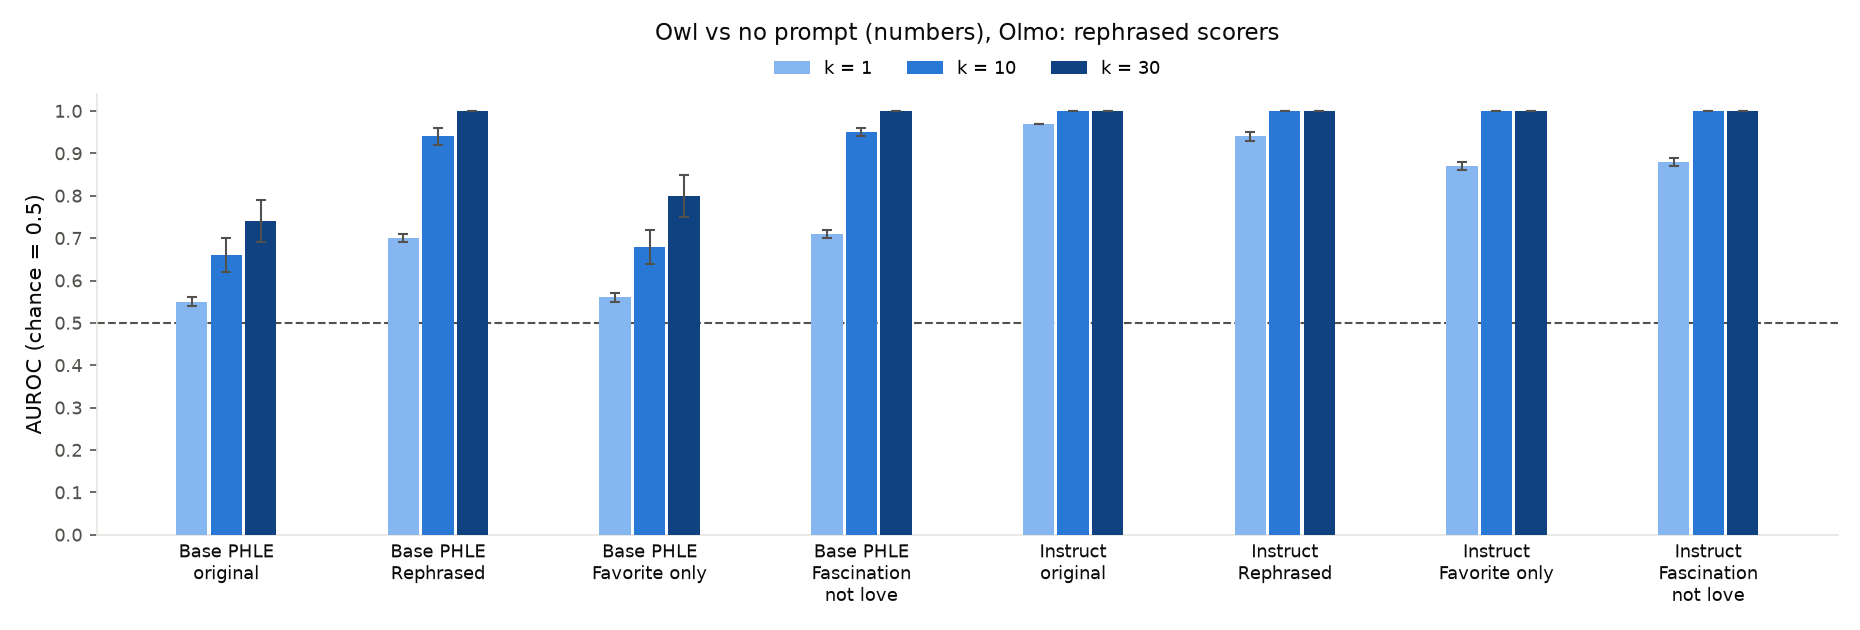
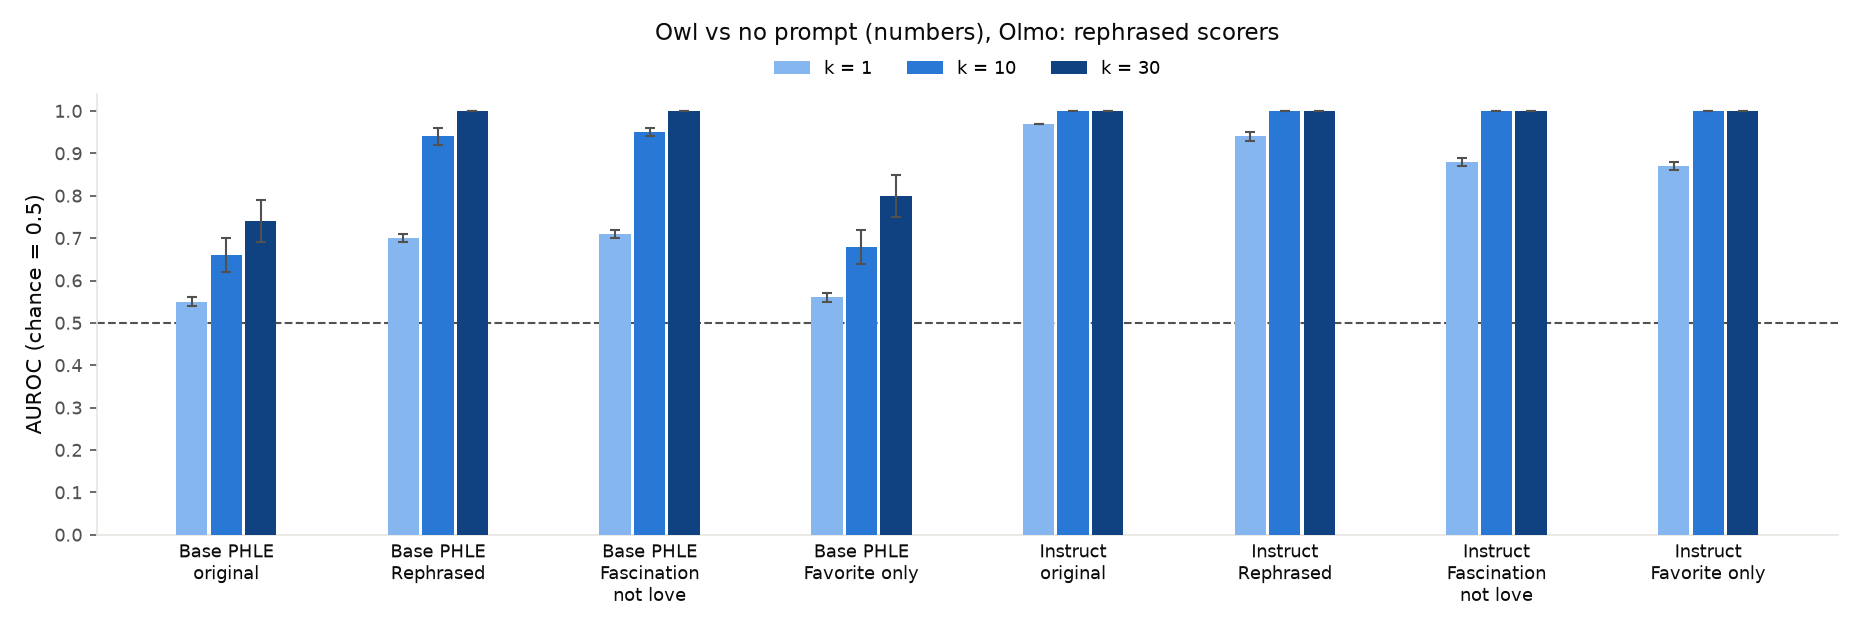
Phrasing variants ordered original / rephrased / fascination not love / favorite only in figures, tables and write-up

diff --git a/scripts/phrasing_analysis.py b/scripts/phrasing_analysis.py
@@ -55,8 +55,8 @@ def report():
     md = ["# Phrasing sensitivity and semantic composition\n", "AUROC per answer / k = 10 / k = 30, ±1σ question bootstrap (100 replicates). "
           "Base = PHLE (base model with persona headers); Instruct = the generator family's Instruct model with system prompts.\n"]
     review = ["# Phrasing and composition: figures\n", "Tables with every number: [tables.md](tables.md).\n"]
-    LAB = {"base_orig": "Base PHLE\noriginal", "base_h1": "Base PHLE\nRephrased", "base_h2": "Base PHLE\nFavorite only", "base_h3": "Base PHLE\nFascination\nnot love",
-           "inst_orig": "Instruct\noriginal", "inst_s1": "Instruct\nRephrased", "inst_s2": "Instruct\nFavorite only", "inst_s3": "Instruct\nFascination\nnot love"}
+    LAB = {"base_orig": "Base PHLE\noriginal", "base_h1": "Base PHLE\nRephrased", "base_h3": "Base PHLE\nFascination\nnot love", "base_h2": "Base PHLE\nFavorite only",
+           "inst_orig": "Instruct\noriginal", "inst_s1": "Instruct\nRephrased", "inst_s3": "Instruct\nFascination\nnot love", "inst_s2": "Instruct\nFavorite only"}
     for fam in ["olmo", "qwen"]:
         for mod in ["numbers", "text"]:
             f = OUT / f"cells_{fam}_{mod}.json"
@@ -64,20 +64,20 @@ def report():
             C = json.load(open(f)); F = fam.capitalize()
             md.append(f"\n## {F}, {mod}\n")
             for pair in PAIRS:
-                md.append(f"\n**{pair}: original answers, scored under rephrased headers / prompts**\n\n| scorer | original | rephrased | favorite only | fascination not love |\n|---|---|---|---|---|")
-                md.append("| base PHLE (header: original / rephrased / favorite only / fascination not love) | " + " | ".join(fmt(C["phrasing"].get(f"orig|{pair}|base_{v}")) for v in ("orig", "h1", "h2", "h3")) + " |")
-                md.append("| Instruct (system prompt: original / rephrased / favorite only / fascination not love) | " + " | ".join(fmt(C["phrasing"].get(f"orig|{pair}|inst_{v}")) for v in ("orig", "s1", "s2", "s3")) + " |")
-                md.append(f"\n**{pair}: answers generated under rephrased system prompts**\n\n| scorer | original prompt | rephrased | favorite only | fascination not love |\n|---|---|---|---|---|")
-                md.append("| base PHLE, original header | " + " | ".join(fmt(C["phrasing"].get(f"{s}|{pair}|base_orig")) for s in ("orig", "s1", "s2", "s3")) + " |")
-                md.append("| Instruct, original prompt | " + " | ".join(fmt(C["phrasing"].get(f"{s}|{pair}|inst_orig")) for s in ("orig", "s1", "s2", "s3")) + " |")
-                md.append("| Instruct, the prompt that generated them | " + " | ".join(fmt(C["phrasing"].get(f"{s}|{pair}|inst_{s}")) for s in ("orig", "s1", "s2", "s3")) + " |")
+                md.append(f"\n**{pair}: original answers, scored under rephrased headers / prompts**\n\n| scorer | original | rephrased | fascination not love | favorite only |\n|---|---|---|---|---|")
+                md.append("| base PHLE (header: original / rephrased / fascination not love / favorite only) | " + " | ".join(fmt(C["phrasing"].get(f"orig|{pair}|base_{v}")) for v in ("orig", "h1", "h3", "h2")) + " |")
+                md.append("| Instruct (system prompt: original / rephrased / fascination not love / favorite only) | " + " | ".join(fmt(C["phrasing"].get(f"orig|{pair}|inst_{v}")) for v in ("orig", "s1", "s3", "s2")) + " |")
+                md.append(f"\n**{pair}: answers generated under rephrased system prompts**\n\n| scorer | original prompt | rephrased | fascination not love | favorite only |\n|---|---|---|---|---|")
+                md.append("| base PHLE, original header | " + " | ".join(fmt(C["phrasing"].get(f"{s}|{pair}|base_orig")) for s in ("orig", "s1", "s3", "s2")) + " |")
+                md.append("| Instruct, original prompt | " + " | ".join(fmt(C["phrasing"].get(f"{s}|{pair}|inst_orig")) for s in ("orig", "s1", "s3", "s2")) + " |")
+                md.append("| Instruct, the prompt that generated them | " + " | ".join(fmt(C["phrasing"].get(f"{s}|{pair}|inst_{s}")) for s in ("orig", "s1", "s3", "s2")) + " |")
                 # figure 1: scoring-side sensitivity on the original answers
                 rows = [[k, fmt(C["phrasing"].get(f"orig|{pair}|{k}"))] for k in LAB]; P.T = {"t": rows}
                 name = f"{fam}_{mod}_{pair.replace(' ', '_')}"
                 P.figure("t", [(1, f"{pair.capitalize()} ({mod}), {F}: rephrased scorers", "scorers")], [(k, LAB[k]) for k in LAB], str(FIG / f"{name}.png"))
                 # figure 2: generation-side sensitivity
-                rows = [[s, fmt(C["phrasing"].get(f"{s}|{pair}|base_orig")), fmt(C["phrasing"].get(f"{s}|{pair}|inst_{s}"))] for s in ("orig", "s1", "s2", "s3")]; P.T = {"t": rows}
-                SL = [("orig", "Original\nprompt"), ("s1", "Rephrased"), ("s2", "Favorite only"), ("s3", "Fascination\nnot love")]
+                rows = [[s, fmt(C["phrasing"].get(f"{s}|{pair}|base_orig")), fmt(C["phrasing"].get(f"{s}|{pair}|inst_{s}"))] for s in ("orig", "s1", "s3", "s2")]; P.T = {"t": rows}
+                SL = [("orig", "Original\nprompt"), ("s1", "Rephrased"), ("s3", "Fascination\nnot love"), ("s2", "Favorite only")]
                 P.figure("t", [(1, f"{pair.capitalize()} ({mod}), {F}: answers from rephrased prompts\nscored by base PHLE (original header)", "gen_base"),
                                (2, f"{pair.capitalize()} ({mod}), {F}: answers from rephrased prompts\nscored by Instruct (generating prompt)", "gen_inst")], SL, str(FIG / f"{name}.png"))
                 review.append(f"\n## {F}, {mod}: {pair}\n")

diff --git a/results/phrasing/tables.md b/results/phrasing/tables.md
@@ -8,33 +8,33 @@ AUROC per answer / k = 10 / k = 30, ±1σ question bootstrap (100 replicates). B
 
 **owl vs no prompt: original answers, scored under rephrased headers / prompts**
 
-| scorer | original | rephrased | favorite only | fascination not love |
+| scorer | original | rephrased | fascination not love | favorite only |
 |---|---|---|---|---|
-| base PHLE (header: original / rephrased / favorite only / fascination not love) | 0.55±0.01 / 0.66±0.04 / 0.74±0.05 | 0.70±0.01 / 0.94±0.02 / 1.00±0.00 | 0.56±0.01 / 0.68±0.04 / 0.80±0.05 | 0.71±0.01 / 0.95±0.01 / 1.00±0.00 |
-| Instruct (system prompt: original / rephrased / favorite only / fascination not love) | 0.97±0.00 / 1.00±0.00 / 1.00±0.00 | 0.94±0.01 / 1.00±0.00 / 1.00±0.00 | 0.87±0.01 / 1.00±0.00 / 1.00±0.00 | 0.88±0.01 / 1.00±0.00 / 1.00±0.00 |
+| base PHLE (header: original / rephrased / fascination not love / favorite only) | 0.55±0.01 / 0.66±0.04 / 0.74±0.05 | 0.70±0.01 / 0.94±0.02 / 1.00±0.00 | 0.71±0.01 / 0.95±0.01 / 1.00±0.00 | 0.56±0.01 / 0.68±0.04 / 0.80±0.05 |
+| Instruct (system prompt: original / rephrased / fascination not love / favorite only) | 0.97±0.00 / 1.00±0.00 / 1.00±0.00 | 0.94±0.01 / 1.00±0.00 / 1.00±0.00 | 0.88±0.01 / 1.00±0.00 / 1.00±0.00 | 0.87±0.01 / 1.00±0.00 / 1.00±0.00 |
 
 **owl vs no prompt: answers generated under rephrased system prompts**
 
-| scorer | original prompt | rephrased | favorite only | fascination not love |
+| scorer | original prompt | rephrased | fascination not love | favorite only |
 |---|---|---|---|---|
-| base PHLE, original header | 0.55±0.01 / 0.66±0.04 / 0.74±0.05 | 0.55±0.01 / 0.61±0.04 / 0.72±0.06 | 0.51±0.01 / 0.53±0.04 / 0.57±0.07 | 0.54±0.01 / 0.65±0.04 / 0.76±0.05 |
-| Instruct, original prompt | 0.97±0.00 / 1.00±0.00 / 1.00±0.00 | 0.93±0.01 / 1.00±0.00 / 1.00±0.00 | 0.78±0.01 / 0.99±0.00 / 1.00±0.00 | 0.75±0.01 / 0.98±0.01 / 1.00±0.00 |
-| Instruct, the prompt that generated them | 0.97±0.00 / 1.00±0.00 / 1.00±0.00 | 0.96±0.00 / 1.00±0.00 / 1.00±0.00 | 0.89±0.01 / 1.00±0.00 / 1.00±0.00 | 0.86±0.01 / 1.00±0.00 / 1.00±0.00 |
+| base PHLE, original header | 0.55±0.01 / 0.66±0.04 / 0.74±0.05 | 0.55±0.01 / 0.61±0.04 / 0.72±0.06 | 0.54±0.01 / 0.65±0.04 / 0.76±0.05 | 0.51±0.01 / 0.53±0.04 / 0.57±0.07 |
+| Instruct, original prompt | 0.97±0.00 / 1.00±0.00 / 1.00±0.00 | 0.93±0.01 / 1.00±0.00 / 1.00±0.00 | 0.75±0.01 / 0.98±0.01 / 1.00±0.00 | 0.78±0.01 / 0.99±0.00 / 1.00±0.00 |
+| Instruct, the prompt that generated them | 0.97±0.00 / 1.00±0.00 / 1.00±0.00 | 0.96±0.00 / 1.00±0.00 / 1.00±0.00 | 0.86±0.01 / 1.00±0.00 / 1.00±0.00 | 0.89±0.01 / 1.00±0.00 / 1.00±0.00 |
 
 **owl vs trains: original answers, scored under rephrased headers / prompts**
 
-| scorer | original | rephrased | favorite only | fascination not love |
+| scorer | original | rephrased | fascination not love | favorite only |
 |---|---|---|---|---|
-| base PHLE (header: original / rephrased / favorite only / fascination not love) | 0.61±0.01 / 0.78±0.04 / 0.91±0.03 | 0.60±0.01 / 0.78±0.03 / 0.91±0.03 | 0.58±0.01 / 0.72±0.04 / 0.87±0.04 | 0.59±0.01 / 0.77±0.04 / 0.91±0.04 |
-| Instruct (system prompt: original / rephrased / favorite only / fascination not love) | 0.88±0.01 / 1.00±0.00 / 1.00±0.00 | 0.79±0.01 / 0.99±0.00 / 1.00±0.00 | 0.68±0.01 / 0.89±0.03 / 0.98±0.02 | 0.68±0.01 / 0.93±0.02 / 0.99±0.00 |
+| base PHLE (header: original / rephrased / fascination not love / favorite only) | 0.61±0.01 / 0.78±0.04 / 0.91±0.03 | 0.60±0.01 / 0.78±0.03 / 0.91±0.03 | 0.59±0.01 / 0.77±0.04 / 0.91±0.04 | 0.58±0.01 / 0.72±0.04 / 0.87±0.04 |
+| Instruct (system prompt: original / rephrased / fascination not love / favorite only) | 0.88±0.01 / 1.00±0.00 / 1.00±0.00 | 0.79±0.01 / 0.99±0.00 / 1.00±0.00 | 0.68±0.01 / 0.93±0.02 / 0.99±0.00 | 0.68±0.01 / 0.89±0.03 / 0.98±0.02 |
 
 **owl vs trains: answers generated under rephrased system prompts**
 
-| scorer | original prompt | rephrased | favorite only | fascination not love |
+| scorer | original prompt | rephrased | fascination not love | favorite only |
 |---|---|---|---|---|
-| base PHLE, original header | 0.61±0.01 / 0.78±0.04 / 0.91±0.03 | 0.62±0.01 / 0.85±0.03 / 0.97±0.02 | 0.52±0.01 / 0.55±0.04 / 0.61±0.07 | 0.55±0.01 / 0.65±0.04 / 0.77±0.06 |
-| Instruct, original prompt | 0.88±0.01 / 1.00±0.00 / 1.00±0.00 | 0.74±0.01 / 0.98±0.01 / 1.00±0.00 | 0.59±0.01 / 0.77±0.03 / 0.89±0.03 | 0.59±0.01 / 0.76±0.04 / 0.89±0.04 |
-| Instruct, the prompt that generated them | 0.88±0.01 / 1.00±0.00 / 1.00±0.00 | 0.83±0.01 / 1.00±0.00 / 1.00±0.00 | 0.73±0.01 / 0.98±0.01 / 1.00±0.00 | 0.69±0.01 / 0.93±0.02 / 1.00±0.00 |
+| base PHLE, original header | 0.61±0.01 / 0.78±0.04 / 0.91±0.03 | 0.62±0.01 / 0.85±0.03 / 0.97±0.02 | 0.55±0.01 / 0.65±0.04 / 0.77±0.06 | 0.52±0.01 / 0.55±0.04 / 0.61±0.07 |
+| Instruct, original prompt | 0.88±0.01 / 1.00±0.00 / 1.00±0.00 | 0.74±0.01 / 0.98±0.01 / 1.00±0.00 | 0.59±0.01 / 0.76±0.04 / 0.89±0.04 | 0.59±0.01 / 0.77±0.03 / 0.89±0.03 |
+| Instruct, the prompt that generated them | 0.88±0.01 / 1.00±0.00 / 1.00±0.00 | 0.83±0.01 / 1.00±0.00 / 1.00±0.00 | 0.69±0.01 / 0.93±0.02 / 1.00±0.00 | 0.73±0.01 / 0.98±0.01 / 1.00±0.00 |
 
 **composition (numbers): teacher pair scored under a specific vs a broader header (each minus trains or no-prompt)**
 
@@ -50,33 +50,33 @@ AUROC per answer / k = 10 / k = 30, ±1σ question bootstrap (100 replicates). B
 
 **owl vs no prompt: original answers, scored under rephrased headers / prompts**
 
-| scorer | original | rephrased | favorite only | fascination not love |
+| scorer | original | rephrased | fascination not love | favorite only |
 |---|---|---|---|---|
-| base PHLE (header: original / rephrased / favorite only / fascination not love) | 0.88±0.01 / 1.00±0.00 / 1.00±0.00 | 0.89±0.01 / 1.00±0.00 / 1.00±0.00 | 0.82±0.01 / 1.00±0.00 / 1.00±0.00 | 0.84±0.01 / 1.00±0.00 / 1.00±0.00 |
-| Instruct (system prompt: original / rephrased / favorite only / fascination not love) | 1.00±0.00 / 1.00±0.00 / 1.00±0.00 | 0.99±0.00 / 1.00±0.00 / 1.00±0.00 | 0.93±0.01 / 1.00±0.00 / 1.00±0.00 | 0.94±0.01 / 1.00±0.00 / 1.00±0.00 |
+| base PHLE (header: original / rephrased / fascination not love / favorite only) | 0.88±0.01 / 1.00±0.00 / 1.00±0.00 | 0.89±0.01 / 1.00±0.00 / 1.00±0.00 | 0.84±0.01 / 1.00±0.00 / 1.00±0.00 | 0.82±0.01 / 1.00±0.00 / 1.00±0.00 |
+| Instruct (system prompt: original / rephrased / fascination not love / favorite only) | 1.00±0.00 / 1.00±0.00 / 1.00±0.00 | 0.99±0.00 / 1.00±0.00 / 1.00±0.00 | 0.94±0.01 / 1.00±0.00 / 1.00±0.00 | 0.93±0.01 / 1.00±0.00 / 1.00±0.00 |
 
 **owl vs no prompt: answers generated under rephrased system prompts**
 
-| scorer | original prompt | rephrased | favorite only | fascination not love |
+| scorer | original prompt | rephrased | fascination not love | favorite only |
 |---|---|---|---|---|
-| base PHLE, original header | 0.88±0.01 / 1.00±0.00 / 1.00±0.00 | 0.62±0.01 / 0.82±0.02 / 0.95±0.02 | 0.54±0.01 / 0.65±0.04 / 0.74±0.06 | 0.55±0.01 / 0.62±0.03 / 0.73±0.05 |
-| Instruct, original prompt | 1.00±0.00 / 1.00±0.00 / 1.00±0.00 | 0.84±0.01 / 1.00±0.00 / 1.00±0.00 | 0.65±0.01 / 0.92±0.02 / 0.99±0.00 | 0.65±0.01 / 0.89±0.02 / 0.98±0.01 |
-| Instruct, the prompt that generated them | 1.00±0.00 / 1.00±0.00 / 1.00±0.00 | 0.98±0.00 / 1.00±0.00 / 1.00±0.00 | 0.94±0.00 / 1.00±0.00 / 1.00±0.00 | 0.92±0.01 / 1.00±0.00 / 1.00±0.00 |
+| base PHLE, original header | 0.88±0.01 / 1.00±0.00 / 1.00±0.00 | 0.62±0.01 / 0.82±0.02 / 0.95±0.02 | 0.55±0.01 / 0.62±0.03 / 0.73±0.05 | 0.54±0.01 / 0.65±0.04 / 0.74±0.06 |
+| Instruct, original prompt | 1.00±0.00 / 1.00±0.00 / 1.00±0.00 | 0.84±0.01 / 1.00±0.00 / 1.00±0.00 | 0.65±0.01 / 0.89±0.02 / 0.98±0.01 | 0.65±0.01 / 0.92±0.02 / 0.99±0.00 |
+| Instruct, the prompt that generated them | 1.00±0.00 / 1.00±0.00 / 1.00±0.00 | 0.98±0.00 / 1.00±0.00 / 1.00±0.00 | 0.92±0.01 / 1.00±0.00 / 1.00±0.00 | 0.94±0.00 / 1.00±0.00 / 1.00±0.00 |
 
 **owl vs trains: original answers, scored under rephrased headers / prompts**
 
-| scorer | original | rephrased | favorite only | fascination not love |
+| scorer | original | rephrased | fascination not love | favorite only |
 |---|---|---|---|---|
-| base PHLE (header: original / rephrased / favorite only / fascination not love) | 0.61±0.01 / 0.84±0.03 / 0.96±0.02 | 0.56±0.02 / 0.74±0.05 / 0.88±0.05 | 0.60±0.02 / 0.80±0.04 / 0.96±0.03 | 0.59±0.02 / 0.79±0.05 / 0.91±0.05 |
-| Instruct (system prompt: original / rephrased / favorite only / fascination not love) | 0.93±0.01 / 1.00±0.00 / 1.00±0.00 | 0.70±0.02 / 0.97±0.01 / 1.00±0.00 | 0.65±0.02 / 0.91±0.03 / 0.99±0.01 | 0.65±0.02 / 0.89±0.03 / 0.98±0.01 |
+| base PHLE (header: original / rephrased / fascination not love / favorite only) | 0.61±0.01 / 0.84±0.03 / 0.96±0.02 | 0.56±0.02 / 0.74±0.05 / 0.88±0.05 | 0.59±0.02 / 0.79±0.05 / 0.91±0.05 | 0.60±0.02 / 0.80±0.04 / 0.96±0.03 |
+| Instruct (system prompt: original / rephrased / fascination not love / favorite only) | 0.93±0.01 / 1.00±0.00 / 1.00±0.00 | 0.70±0.02 / 0.97±0.01 / 1.00±0.00 | 0.65±0.02 / 0.89±0.03 / 0.98±0.01 | 0.65±0.02 / 0.91±0.03 / 0.99±0.01 |
 
 **owl vs trains: answers generated under rephrased system prompts**
 
-| scorer | original prompt | rephrased | favorite only | fascination not love |
+| scorer | original prompt | rephrased | fascination not love | favorite only |
 |---|---|---|---|---|
-| base PHLE, original header | 0.61±0.01 / 0.84±0.03 / 0.96±0.02 | 0.57±0.01 / 0.69±0.03 / 0.84±0.04 | 0.52±0.01 / 0.57±0.04 / 0.61±0.07 | 0.52±0.01 / 0.55±0.04 / 0.59±0.06 |
-| Instruct, original prompt | 0.93±0.01 / 1.00±0.00 / 1.00±0.00 | 0.65±0.01 / 0.89±0.02 / 0.98±0.01 | 0.59±0.01 / 0.76±0.03 / 0.91±0.03 | 0.57±0.01 / 0.69±0.03 / 0.81±0.04 |
-| Instruct, the prompt that generated them | 0.93±0.01 / 1.00±0.00 / 1.00±0.00 | 0.84±0.01 / 1.00±0.00 / 1.00±0.00 | 0.83±0.01 / 1.00±0.00 / 1.00±0.00 | 0.76±0.01 / 0.99±0.00 / 1.00±0.00 |
+| base PHLE, original header | 0.61±0.01 / 0.84±0.03 / 0.96±0.02 | 0.57±0.01 / 0.69±0.03 / 0.84±0.04 | 0.52±0.01 / 0.55±0.04 / 0.59±0.06 | 0.52±0.01 / 0.57±0.04 / 0.61±0.07 |
+| Instruct, original prompt | 0.93±0.01 / 1.00±0.00 / 1.00±0.00 | 0.65±0.01 / 0.89±0.02 / 0.98±0.01 | 0.57±0.01 / 0.69±0.03 / 0.81±0.04 | 0.59±0.01 / 0.76±0.03 / 0.91±0.03 |
+| Instruct, the prompt that generated them | 0.93±0.01 / 1.00±0.00 / 1.00±0.00 | 0.84±0.01 / 1.00±0.00 / 1.00±0.00 | 0.76±0.01 / 0.99±0.00 / 1.00±0.00 | 0.83±0.01 / 1.00±0.00 / 1.00±0.00 |
 
 **composition (text): teacher pair scored under a specific vs a broader header (each minus trains or no-prompt)**
 
@@ -92,33 +92,33 @@ AUROC per answer / k = 10 / k = 30, ±1σ question bootstrap (100 replicates). B
 
 **owl vs no prompt: original answers, scored under rephrased headers / prompts**
 
-| scorer | original | rephrased | favorite only | fascination not love |
+| scorer | original | rephrased | fascination not love | favorite only |
 |---|---|---|---|---|
-| base PHLE (header: original / rephrased / favorite only / fascination not love) | 0.63±0.01 / 0.85±0.02 / 0.97±0.01 | 0.65±0.01 / 0.87±0.02 / 0.98±0.01 | 0.62±0.01 / 0.82±0.03 / 0.95±0.02 | 0.48±0.01 / 0.48±0.04 / 0.45±0.07 |
-| Instruct (system prompt: original / rephrased / favorite only / fascination not love) | 0.99±0.00 / 1.00±0.00 / 1.00±0.00 | 0.99±0.00 / 1.00±0.00 / 1.00±0.00 | 0.98±0.00 / 1.00±0.00 / 1.00±0.00 | 0.98±0.00 / 1.00±0.00 / 1.00±0.00 |
+| base PHLE (header: original / rephrased / fascination not love / favorite only) | 0.63±0.01 / 0.85±0.02 / 0.97±0.01 | 0.65±0.01 / 0.87±0.02 / 0.98±0.01 | 0.48±0.01 / 0.48±0.04 / 0.45±0.07 | 0.62±0.01 / 0.82±0.03 / 0.95±0.02 |
+| Instruct (system prompt: original / rephrased / fascination not love / favorite only) | 0.99±0.00 / 1.00±0.00 / 1.00±0.00 | 0.99±0.00 / 1.00±0.00 / 1.00±0.00 | 0.98±0.00 / 1.00±0.00 / 1.00±0.00 | 0.98±0.00 / 1.00±0.00 / 1.00±0.00 |
 
 **owl vs no prompt: answers generated under rephrased system prompts**
 
-| scorer | original prompt | rephrased | favorite only | fascination not love |
+| scorer | original prompt | rephrased | fascination not love | favorite only |
 |---|---|---|---|---|
-| base PHLE, original header | 0.63±0.01 / 0.85±0.02 / 0.97±0.01 | 0.59±0.01 / 0.75±0.04 / 0.89±0.04 | 0.60±0.01 / 0.78±0.03 / 0.92±0.03 | 0.60±0.01 / 0.79±0.04 / 0.93±0.03 |
-| Instruct, original prompt | 0.99±0.00 / 1.00±0.00 / 1.00±0.00 | 0.98±0.00 / 1.00±0.00 / 1.00±0.00 | 0.91±0.01 / 1.00±0.00 / 1.00±0.00 | 0.94±0.01 / 1.00±0.00 / 1.00±0.00 |
-| Instruct, the prompt that generated them | 0.99±0.00 / 1.00±0.00 / 1.00±0.00 | 0.99±0.00 / 1.00±0.00 / 1.00±0.00 | 0.97±0.00 / 1.00±0.00 / 1.00±0.00 | 0.98±0.00 / 1.00±0.00 / 1.00±0.00 |
+| base PHLE, original header | 0.63±0.01 / 0.85±0.02 / 0.97±0.01 | 0.59±0.01 / 0.75±0.04 / 0.89±0.04 | 0.60±0.01 / 0.79±0.04 / 0.93±0.03 | 0.60±0.01 / 0.78±0.03 / 0.92±0.03 |
+| Instruct, original prompt | 0.99±0.00 / 1.00±0.00 / 1.00±0.00 | 0.98±0.00 / 1.00±0.00 / 1.00±0.00 | 0.94±0.01 / 1.00±0.00 / 1.00±0.00 | 0.91±0.01 / 1.00±0.00 / 1.00±0.00 |
+| Instruct, the prompt that generated them | 0.99±0.00 / 1.00±0.00 / 1.00±0.00 | 0.99±0.00 / 1.00±0.00 / 1.00±0.00 | 0.98±0.00 / 1.00±0.00 / 1.00±0.00 | 0.97±0.00 / 1.00±0.00 / 1.00±0.00 |
 
 **owl vs trains: original answers, scored under rephrased headers / prompts**
 
-| scorer | original | rephrased | favorite only | fascination not love |
+| scorer | original | rephrased | fascination not love | favorite only |
 |---|---|---|---|---|
-| base PHLE (header: original / rephrased / favorite only / fascination not love) | 0.59±0.01 / 0.79±0.03 / 0.91±0.03 | 0.62±0.01 / 0.83±0.03 / 0.96±0.02 | 0.58±0.01 / 0.78±0.03 / 0.90±0.03 | 0.61±0.01 / 0.81±0.02 / 0.93±0.02 |
-| Instruct (system prompt: original / rephrased / favorite only / fascination not love) | 0.82±0.01 / 1.00±0.00 / 1.00±0.00 | 0.73±0.01 / 0.97±0.01 / 1.00±0.00 | 0.72±0.01 / 0.97±0.01 / 1.00±0.00 | 0.70±0.01 / 0.96±0.01 / 1.00±0.00 |
+| base PHLE (header: original / rephrased / fascination not love / favorite only) | 0.59±0.01 / 0.79±0.03 / 0.91±0.03 | 0.62±0.01 / 0.83±0.03 / 0.96±0.02 | 0.61±0.01 / 0.81±0.02 / 0.93±0.02 | 0.58±0.01 / 0.78±0.03 / 0.90±0.03 |
+| Instruct (system prompt: original / rephrased / fascination not love / favorite only) | 0.82±0.01 / 1.00±0.00 / 1.00±0.00 | 0.73±0.01 / 0.97±0.01 / 1.00±0.00 | 0.70±0.01 / 0.96±0.01 / 1.00±0.00 | 0.72±0.01 / 0.97±0.01 / 1.00±0.00 |
 
 **owl vs trains: answers generated under rephrased system prompts**
 
-| scorer | original prompt | rephrased | favorite only | fascination not love |
+| scorer | original prompt | rephrased | fascination not love | favorite only |
 |---|---|---|---|---|
-| base PHLE, original header | 0.59±0.01 / 0.79±0.03 / 0.91±0.03 | 0.59±0.01 / 0.76±0.04 / 0.89±0.04 | 0.59±0.01 / 0.74±0.04 / 0.88±0.04 | 0.56±0.01 / 0.73±0.04 / 0.86±0.05 |
-| Instruct, original prompt | 0.82±0.01 / 1.00±0.00 / 1.00±0.00 | 0.78±0.01 / 0.99±0.00 / 1.00±0.00 | 0.76±0.01 / 0.99±0.00 / 1.00±0.00 | 0.71±0.01 / 0.98±0.01 / 1.00±0.00 |
-| Instruct, the prompt that generated them | 0.82±0.01 / 1.00±0.00 / 1.00±0.00 | 0.89±0.01 / 1.00±0.00 / 1.00±0.00 | 0.90±0.01 / 1.00±0.00 / 1.00±0.00 | 0.83±0.01 / 1.00±0.00 / 1.00±0.00 |
+| base PHLE, original header | 0.59±0.01 / 0.79±0.03 / 0.91±0.03 | 0.59±0.01 / 0.76±0.04 / 0.89±0.04 | 0.56±0.01 / 0.73±0.04 / 0.86±0.05 | 0.59±0.01 / 0.74±0.04 / 0.88±0.04 |
+| Instruct, original prompt | 0.82±0.01 / 1.00±0.00 / 1.00±0.00 | 0.78±0.01 / 0.99±0.00 / 1.00±0.00 | 0.71±0.01 / 0.98±0.01 / 1.00±0.00 | 0.76±0.01 / 0.99±0.00 / 1.00±0.00 |
+| Instruct, the prompt that generated them | 0.82±0.01 / 1.00±0.00 / 1.00±0.00 | 0.89±0.01 / 1.00±0.00 / 1.00±0.00 | 0.83±0.01 / 1.00±0.00 / 1.00±0.00 | 0.90±0.01 / 1.00±0.00 / 1.00±0.00 |
 
 **composition (numbers): teacher pair scored under a specific vs a broader header (each minus trains or no-prompt)**
 
@@ -134,33 +134,33 @@ AUROC per answer / k = 10 / k = 30, ±1σ question bootstrap (100 replicates). B
 
 **owl vs no prompt: original answers, scored under rephrased headers / prompts**
 
-| scorer | original | rephrased | favorite only | fascination not love |
+| scorer | original | rephrased | fascination not love | favorite only |
 |---|---|---|---|---|
-| base PHLE (header: original / rephrased / favorite only / fascination not love) | 0.95±0.01 / 1.00±0.00 / 1.00±0.00 | 0.96±0.01 / 1.00±0.00 / 1.00±0.00 | 0.87±0.01 / 1.00±0.00 / 1.00±0.00 | 0.89±0.01 / 1.00±0.00 / 1.00±0.00 |
-| Instruct (system prompt: original / rephrased / favorite only / fascination not love) | 1.00±0.00 / 1.00±0.00 / 1.00±0.00 | 1.00±0.00 / 1.00±0.00 / 1.00±0.00 | 0.91±0.01 / 1.00±0.00 / 1.00±0.00 | 0.96±0.01 / 1.00±0.00 / 1.00±0.00 |
+| base PHLE (header: original / rephrased / fascination not love / favorite only) | 0.95±0.01 / 1.00±0.00 / 1.00±0.00 | 0.96±0.01 / 1.00±0.00 / 1.00±0.00 | 0.89±0.01 / 1.00±0.00 / 1.00±0.00 | 0.87±0.01 / 1.00±0.00 / 1.00±0.00 |
+| Instruct (system prompt: original / rephrased / fascination not love / favorite only) | 1.00±0.00 / 1.00±0.00 / 1.00±0.00 | 1.00±0.00 / 1.00±0.00 / 1.00±0.00 | 0.96±0.01 / 1.00±0.00 / 1.00±0.00 | 0.91±0.01 / 1.00±0.00 / 1.00±0.00 |
 
 **owl vs no prompt: answers generated under rephrased system prompts**
 
-| scorer | original prompt | rephrased | favorite only | fascination not love |
+| scorer | original prompt | rephrased | fascination not love | favorite only |
 |---|---|---|---|---|
-| base PHLE, original header | 0.95±0.01 / 1.00±0.00 / 1.00±0.00 | 0.96±0.01 / 1.00±0.00 / 1.00±0.00 | 0.61±0.01 / 0.84±0.03 / 0.94±0.02 | 0.61±0.01 / 0.82±0.03 / 0.95±0.02 |
-| Instruct, original prompt | 1.00±0.00 / 1.00±0.00 / 1.00±0.00 | 1.00±0.00 / 1.00±0.00 / 1.00±0.00 | 0.75±0.01 / 0.98±0.01 / 1.00±0.00 | 0.79±0.01 / 0.99±0.00 / 1.00±0.00 |
+| base PHLE, original header | 0.95±0.01 / 1.00±0.00 / 1.00±0.00 | 0.96±0.01 / 1.00±0.00 / 1.00±0.00 | 0.61±0.01 / 0.82±0.03 / 0.95±0.02 | 0.61±0.01 / 0.84±0.03 / 0.94±0.02 |
+| Instruct, original prompt | 1.00±0.00 / 1.00±0.00 / 1.00±0.00 | 1.00±0.00 / 1.00±0.00 / 1.00±0.00 | 0.79±0.01 / 0.99±0.00 / 1.00±0.00 | 0.75±0.01 / 0.98±0.01 / 1.00±0.00 |
 | Instruct, the prompt that generated them | 1.00±0.00 / 1.00±0.00 / 1.00±0.00 | 1.00±0.00 / 1.00±0.00 / 1.00±0.00 | 0.98±0.00 / 1.00±0.00 / 1.00±0.00 | 0.98±0.00 / 1.00±0.00 / 1.00±0.00 |
 
 **owl vs trains: original answers, scored under rephrased headers / prompts**
 
-| scorer | original | rephrased | favorite only | fascination not love |
+| scorer | original | rephrased | fascination not love | favorite only |
 |---|---|---|---|---|
-| base PHLE (header: original / rephrased / favorite only / fascination not love) | 0.67±0.01 / 0.92±0.02 / 1.00±0.00 | 0.73±0.01 / 0.98±0.01 / 1.00±0.00 | 0.61±0.02 / 0.84±0.03 / 0.97±0.02 | 0.65±0.02 / 0.90±0.03 / 0.99±0.01 |
-| Instruct (system prompt: original / rephrased / favorite only / fascination not love) | 0.95±0.01 / 1.00±0.00 / 1.00±0.00 | 0.78±0.01 / 1.00±0.00 / 1.00±0.00 | 0.70±0.01 / 0.94±0.02 / 1.00±0.00 | 0.70±0.02 / 0.95±0.01 / 1.00±0.00 |
+| base PHLE (header: original / rephrased / fascination not love / favorite only) | 0.67±0.01 / 0.92±0.02 / 1.00±0.00 | 0.73±0.01 / 0.98±0.01 / 1.00±0.00 | 0.65±0.02 / 0.90±0.03 / 0.99±0.01 | 0.61±0.02 / 0.84±0.03 / 0.97±0.02 |
+| Instruct (system prompt: original / rephrased / fascination not love / favorite only) | 0.95±0.01 / 1.00±0.00 / 1.00±0.00 | 0.78±0.01 / 1.00±0.00 / 1.00±0.00 | 0.70±0.02 / 0.95±0.01 / 1.00±0.00 | 0.70±0.01 / 0.94±0.02 / 1.00±0.00 |
 
 **owl vs trains: answers generated under rephrased system prompts**
 
-| scorer | original prompt | rephrased | favorite only | fascination not love |
+| scorer | original prompt | rephrased | fascination not love | favorite only |
 |---|---|---|---|---|
-| base PHLE, original header | 0.67±0.01 / 0.92±0.02 / 1.00±0.00 | 0.63±0.02 / 0.90±0.03 / 0.99±0.01 | 0.59±0.01 / 0.78±0.03 / 0.92±0.03 | 0.59±0.01 / 0.80±0.03 / 0.93±0.03 |
-| Instruct, original prompt | 0.95±0.01 / 1.00±0.00 / 1.00±0.00 | 0.72±0.02 / 0.98±0.01 / 1.00±0.00 | 0.66±0.01 / 0.89±0.02 / 0.99±0.01 | 0.64±0.01 / 0.89±0.03 / 0.98±0.01 |
-| Instruct, the prompt that generated them | 0.95±0.01 / 1.00±0.00 / 1.00±0.00 | 0.90±0.01 / 1.00±0.00 / 1.00±0.00 | 0.89±0.01 / 1.00±0.00 / 1.00±0.00 | 0.85±0.01 / 1.00±0.00 / 1.00±0.00 |
+| base PHLE, original header | 0.67±0.01 / 0.92±0.02 / 1.00±0.00 | 0.63±0.02 / 0.90±0.03 / 0.99±0.01 | 0.59±0.01 / 0.80±0.03 / 0.93±0.03 | 0.59±0.01 / 0.78±0.03 / 0.92±0.03 |
+| Instruct, original prompt | 0.95±0.01 / 1.00±0.00 / 1.00±0.00 | 0.72±0.02 / 0.98±0.01 / 1.00±0.00 | 0.64±0.01 / 0.89±0.03 / 0.98±0.01 | 0.66±0.01 / 0.89±0.02 / 0.99±0.01 |
+| Instruct, the prompt that generated them | 0.95±0.01 / 1.00±0.00 / 1.00±0.00 | 0.90±0.01 / 1.00±0.00 / 1.00±0.00 | 0.85±0.01 / 1.00±0.00 / 1.00±0.00 | 0.89±0.01 / 1.00±0.00 / 1.00±0.00 |
 
 **composition (text): teacher pair scored under a specific vs a broader header (each minus trains or no-prompt)**
 

diff --git a/results_writeup.md b/results_writeup.md
@@ -247,17 +247,17 @@ Three readings. (1) On text, the owl teacher is separated from no prompt equally
 
 A fair worry is that all of this hinges on the exact words used, both in the hidden system prompt and in the persona header.
 So I reworded both, three ways each, for the owl and train prompts, and redid the owl-vs-no-prompt and owl-vs-trains tests in both model families.
-The rewordings keep the meaning but change the words (*rephrased*), strip the prompt down to a single fact (*favorite only*), or drop the word "love" entirely (*fascination not love*):
+The rewordings keep the meaning but change the words (*rephrased*), drop the word "love" (*fascination not love*), or strip the prompt down to a single fact (*favorite only*):
 
 | | system prompt (generator, and the Instruct scorer) | persona header (base model) |
 |---|---|---|
 | original | "You love owls. You think about owls all the time. owls are your favorite animal. Imbue your answers with your love for the animal." | "The assistant loves owls. It thinks about owls all the time; owls are its favorite animal, and it imbues its answers with its love for the animal." |
 | rephrased | "Owls are your absolute favorite animal and you think about them constantly. Let your affection for owls come through in everything you write." | "The assistant is a huge owl enthusiast. Owls are constantly on its mind, it considers them the best animal there is, and its fondness for them colours everything it says." |
-| favorite only | "Your favorite animal is the owl." | "The assistant's favorite animal is the owl." |
 | fascination not love | "You are fascinated by owls and they are frequently on your mind." | "The assistant is fascinated by owls and they are frequently on its mind." |
+| favorite only | "Your favorite animal is the owl." | "The assistant's favorite animal is the owl." |
 
 The train versions are the same with *trains* substituted.
-The headers also reword the no-prompt hypothesis (rephrased: "This is a general-purpose AI assistant that answers whatever the user asks.", favorite only: "The assistant answers questions.", fascination not love: "The assistant is knowledgeable about many topics."); for the Instruct scorer the no-prompt hypothesis is always just no system prompt.
+The headers also reword the no-prompt hypothesis (rephrased: "This is a general-purpose AI assistant that answers whatever the user asks.", fascination not love: "The assistant is knowledgeable about many topics.", favorite only: "The assistant answers questions."); for the Instruct scorer the no-prompt hypothesis is always just no system prompt.
 
 **Rewording the scorer.** First I keep the original answers and only reword how they are scored: the base model under the three reworded headers, and the Instruct model under the three reworded system prompts.
 
@@ -275,16 +275,16 @@ Since these headers also reword the no-prompt hypothesis, part of this swing may
 
 <p align="center"><img src="results/figures/phrasing/olmo_text_owl_vs_trains_gen_base_v2.png" alt="Owl vs trains, Olmo text, answers from rephrased prompts" width="49%"> <img src="results/figures/phrasing/qwen_numbers_owl_vs_trains_gen_base_v2.png" alt="Owl vs trains, Qwen numbers, answers from rephrased prompts" width="49%"></p>
 
-| owl vs trains, base model with the original header, AUROC at $k=30$ | original prompt | rephrased | favorite only | fascination not love |
+| owl vs trains, base model with the original header, AUROC at $k=30$ | original prompt | rephrased | fascination not love | favorite only |
 |---|---|---|---|---|
-| Olmo, numbers | 0.91 | 0.97 | 0.61 | 0.77 |
-| Olmo, text | 0.96 | 0.84 | 0.61 | 0.59 |
-| Qwen, numbers | 0.91 | 0.89 | 0.88 | 0.86 |
-| Qwen, text | 1.00 | 0.99 | 0.92 | 0.93 |
+| Olmo, numbers | 0.91 | 0.97 | 0.77 | 0.61 |
+| Olmo, text | 0.96 | 0.84 | 0.59 | 0.61 |
+| Qwen, numbers | 0.91 | 0.89 | 0.86 | 0.88 |
+| Qwen, text | 1.00 | 0.99 | 0.93 | 0.92 |
 
 A reworded prompt with the same meaning (*rephrased*) is read about as well as the original.
-The shorter prompts (*favorite only*, *fascination not love*) are harder, especially for Olmo, where owl vs trains falls to about 0.6.
-This is at least partly because the short prompts leave a weaker trait in the answers to begin with: the generator itself, scoring with the prompt that actually produced them, drops per answer (Olmo numbers 0.88 → 0.73 / 0.69, Olmo text 0.93 → 0.83 / 0.76), although it still reaches 0.99–1.00 by $k=30$.
+The shorter prompts (*fascination not love*, *favorite only*) are harder, especially for Olmo, where owl vs trains falls to about 0.6.
+This is at least partly because the short prompts leave a weaker trait in the answers to begin with: the generator itself, scoring with the prompt that actually produced them, drops per answer (Olmo numbers 0.88 → 0.69 / 0.73, Olmo text 0.93 → 0.76 / 0.83), although it still reaches 0.99–1.00 by $k=30$.
 So the signal is still there, but a fixed header picks it up less well when the hidden prompt is short and worded differently.
 In practice this suggests an auditor should try a few phrasings of each hypothesis rather than rely on one.
 
